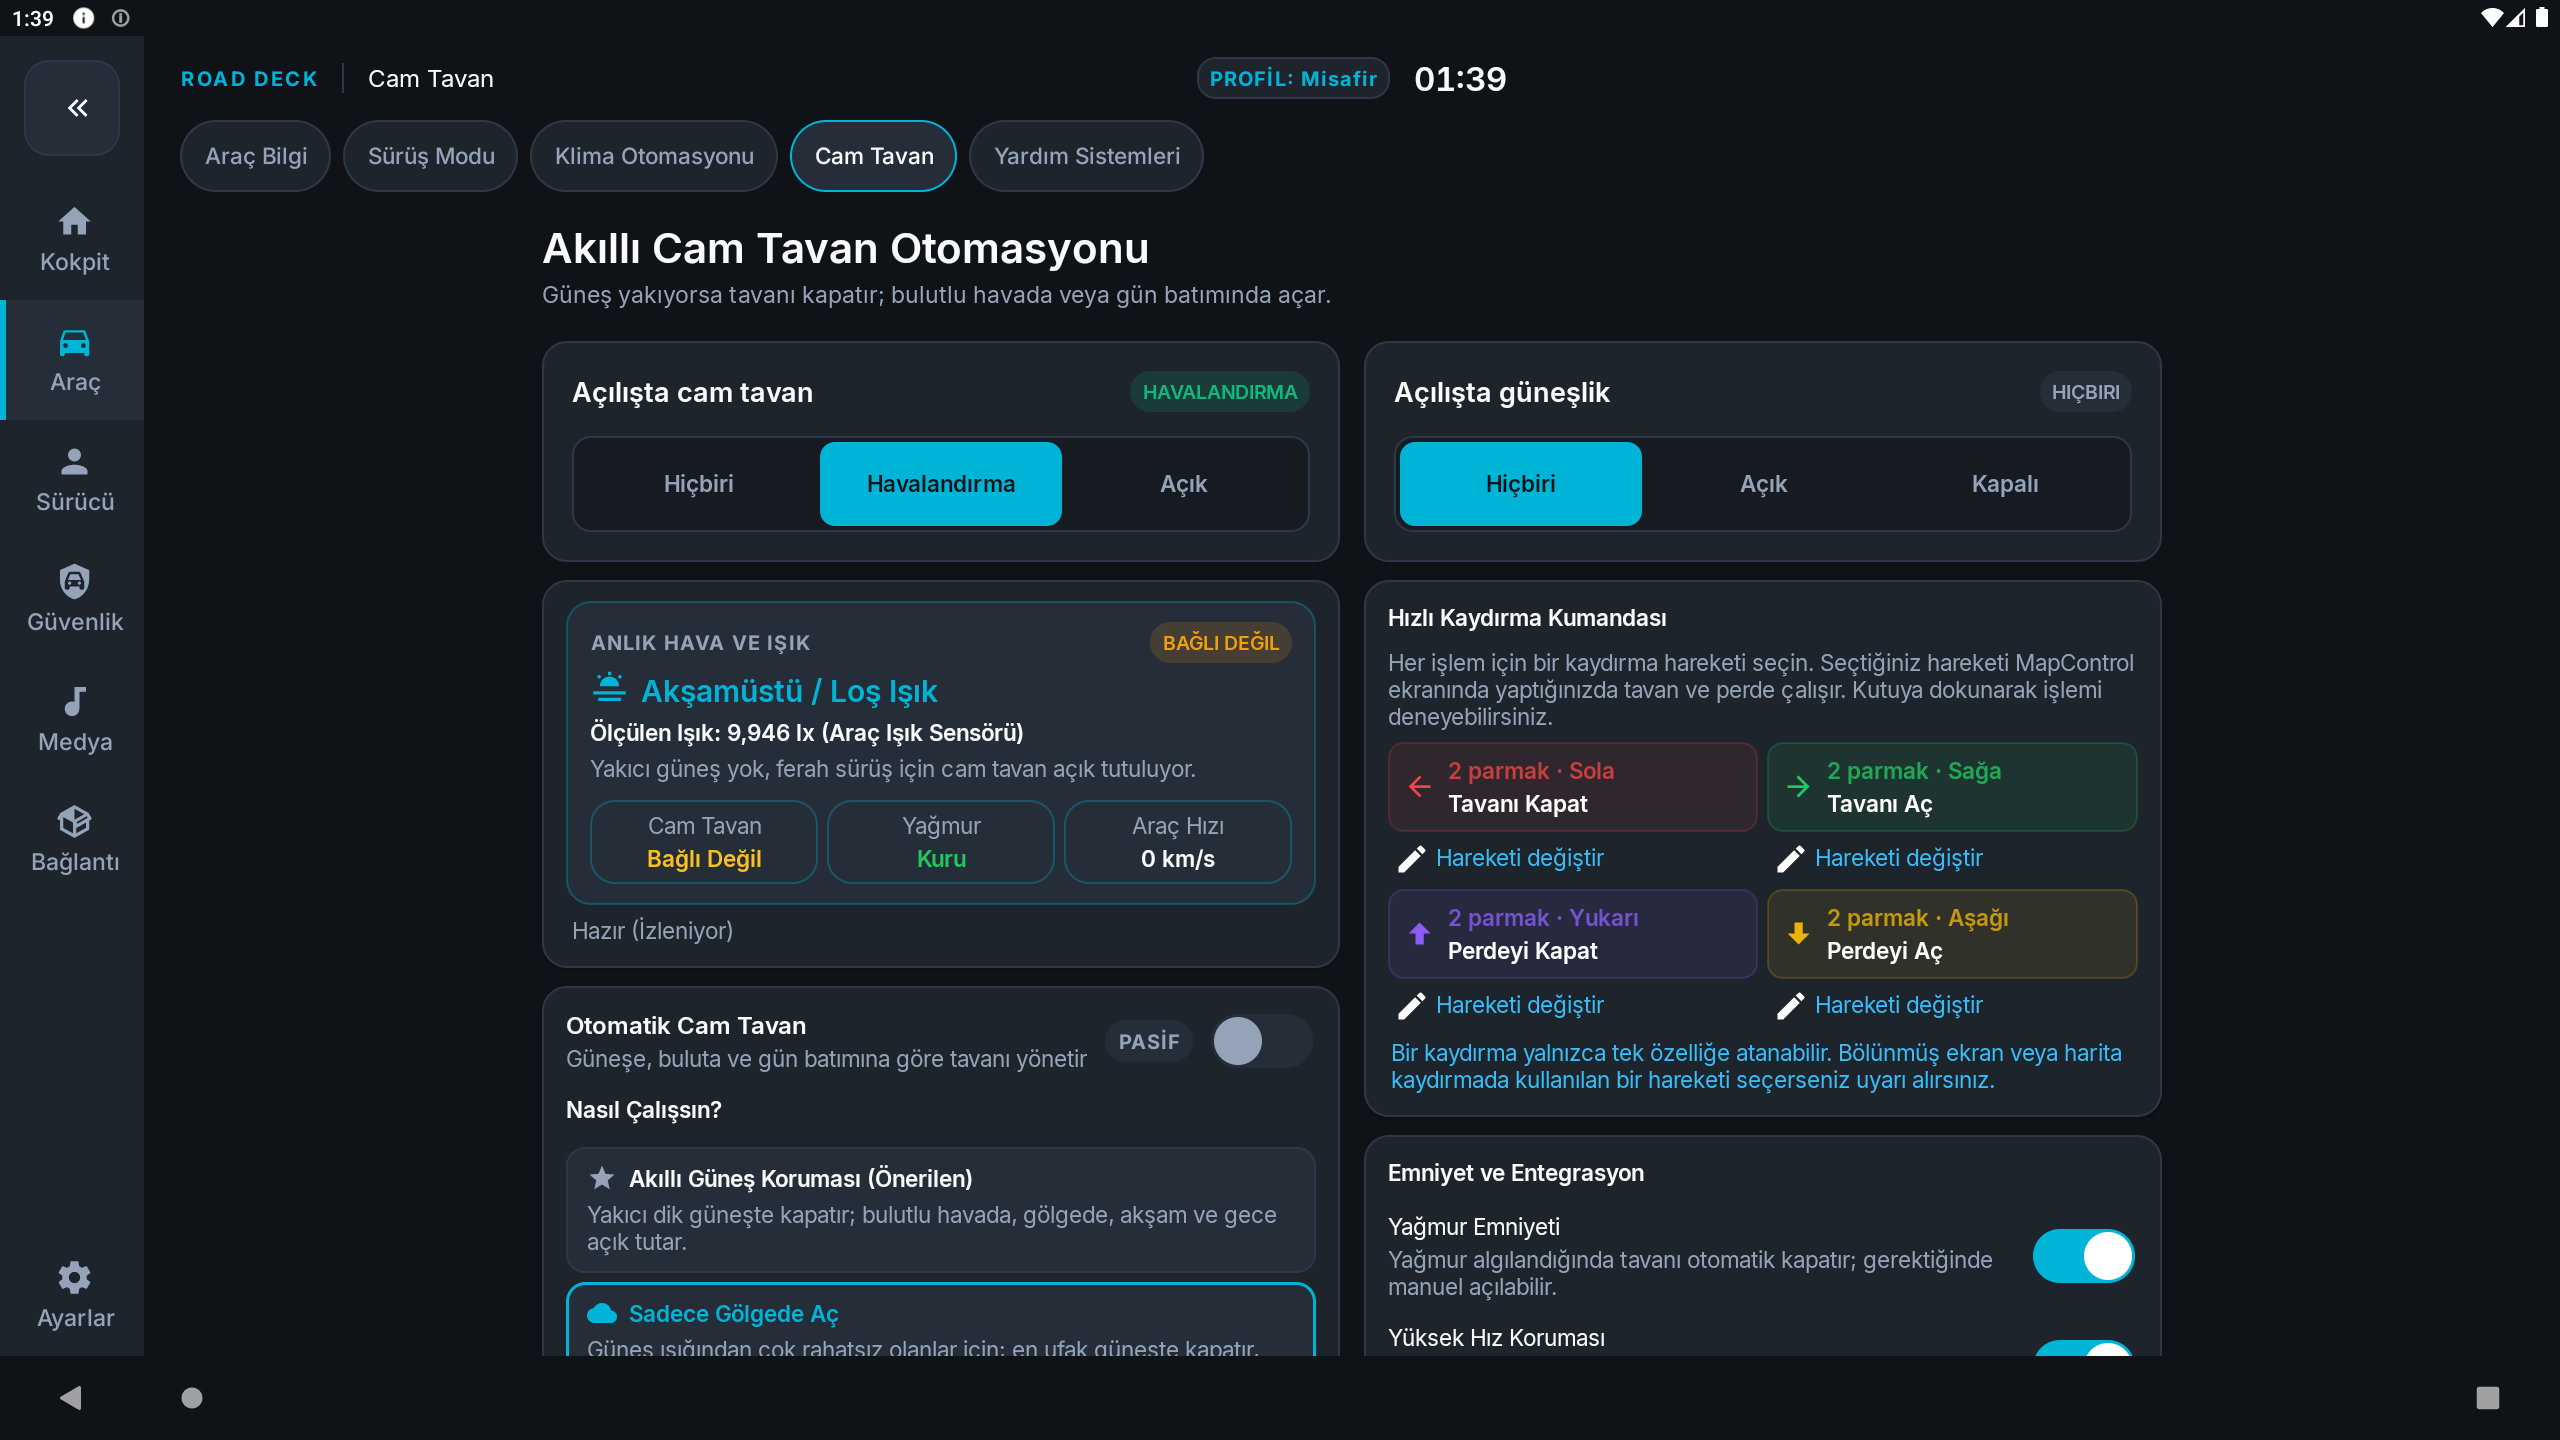
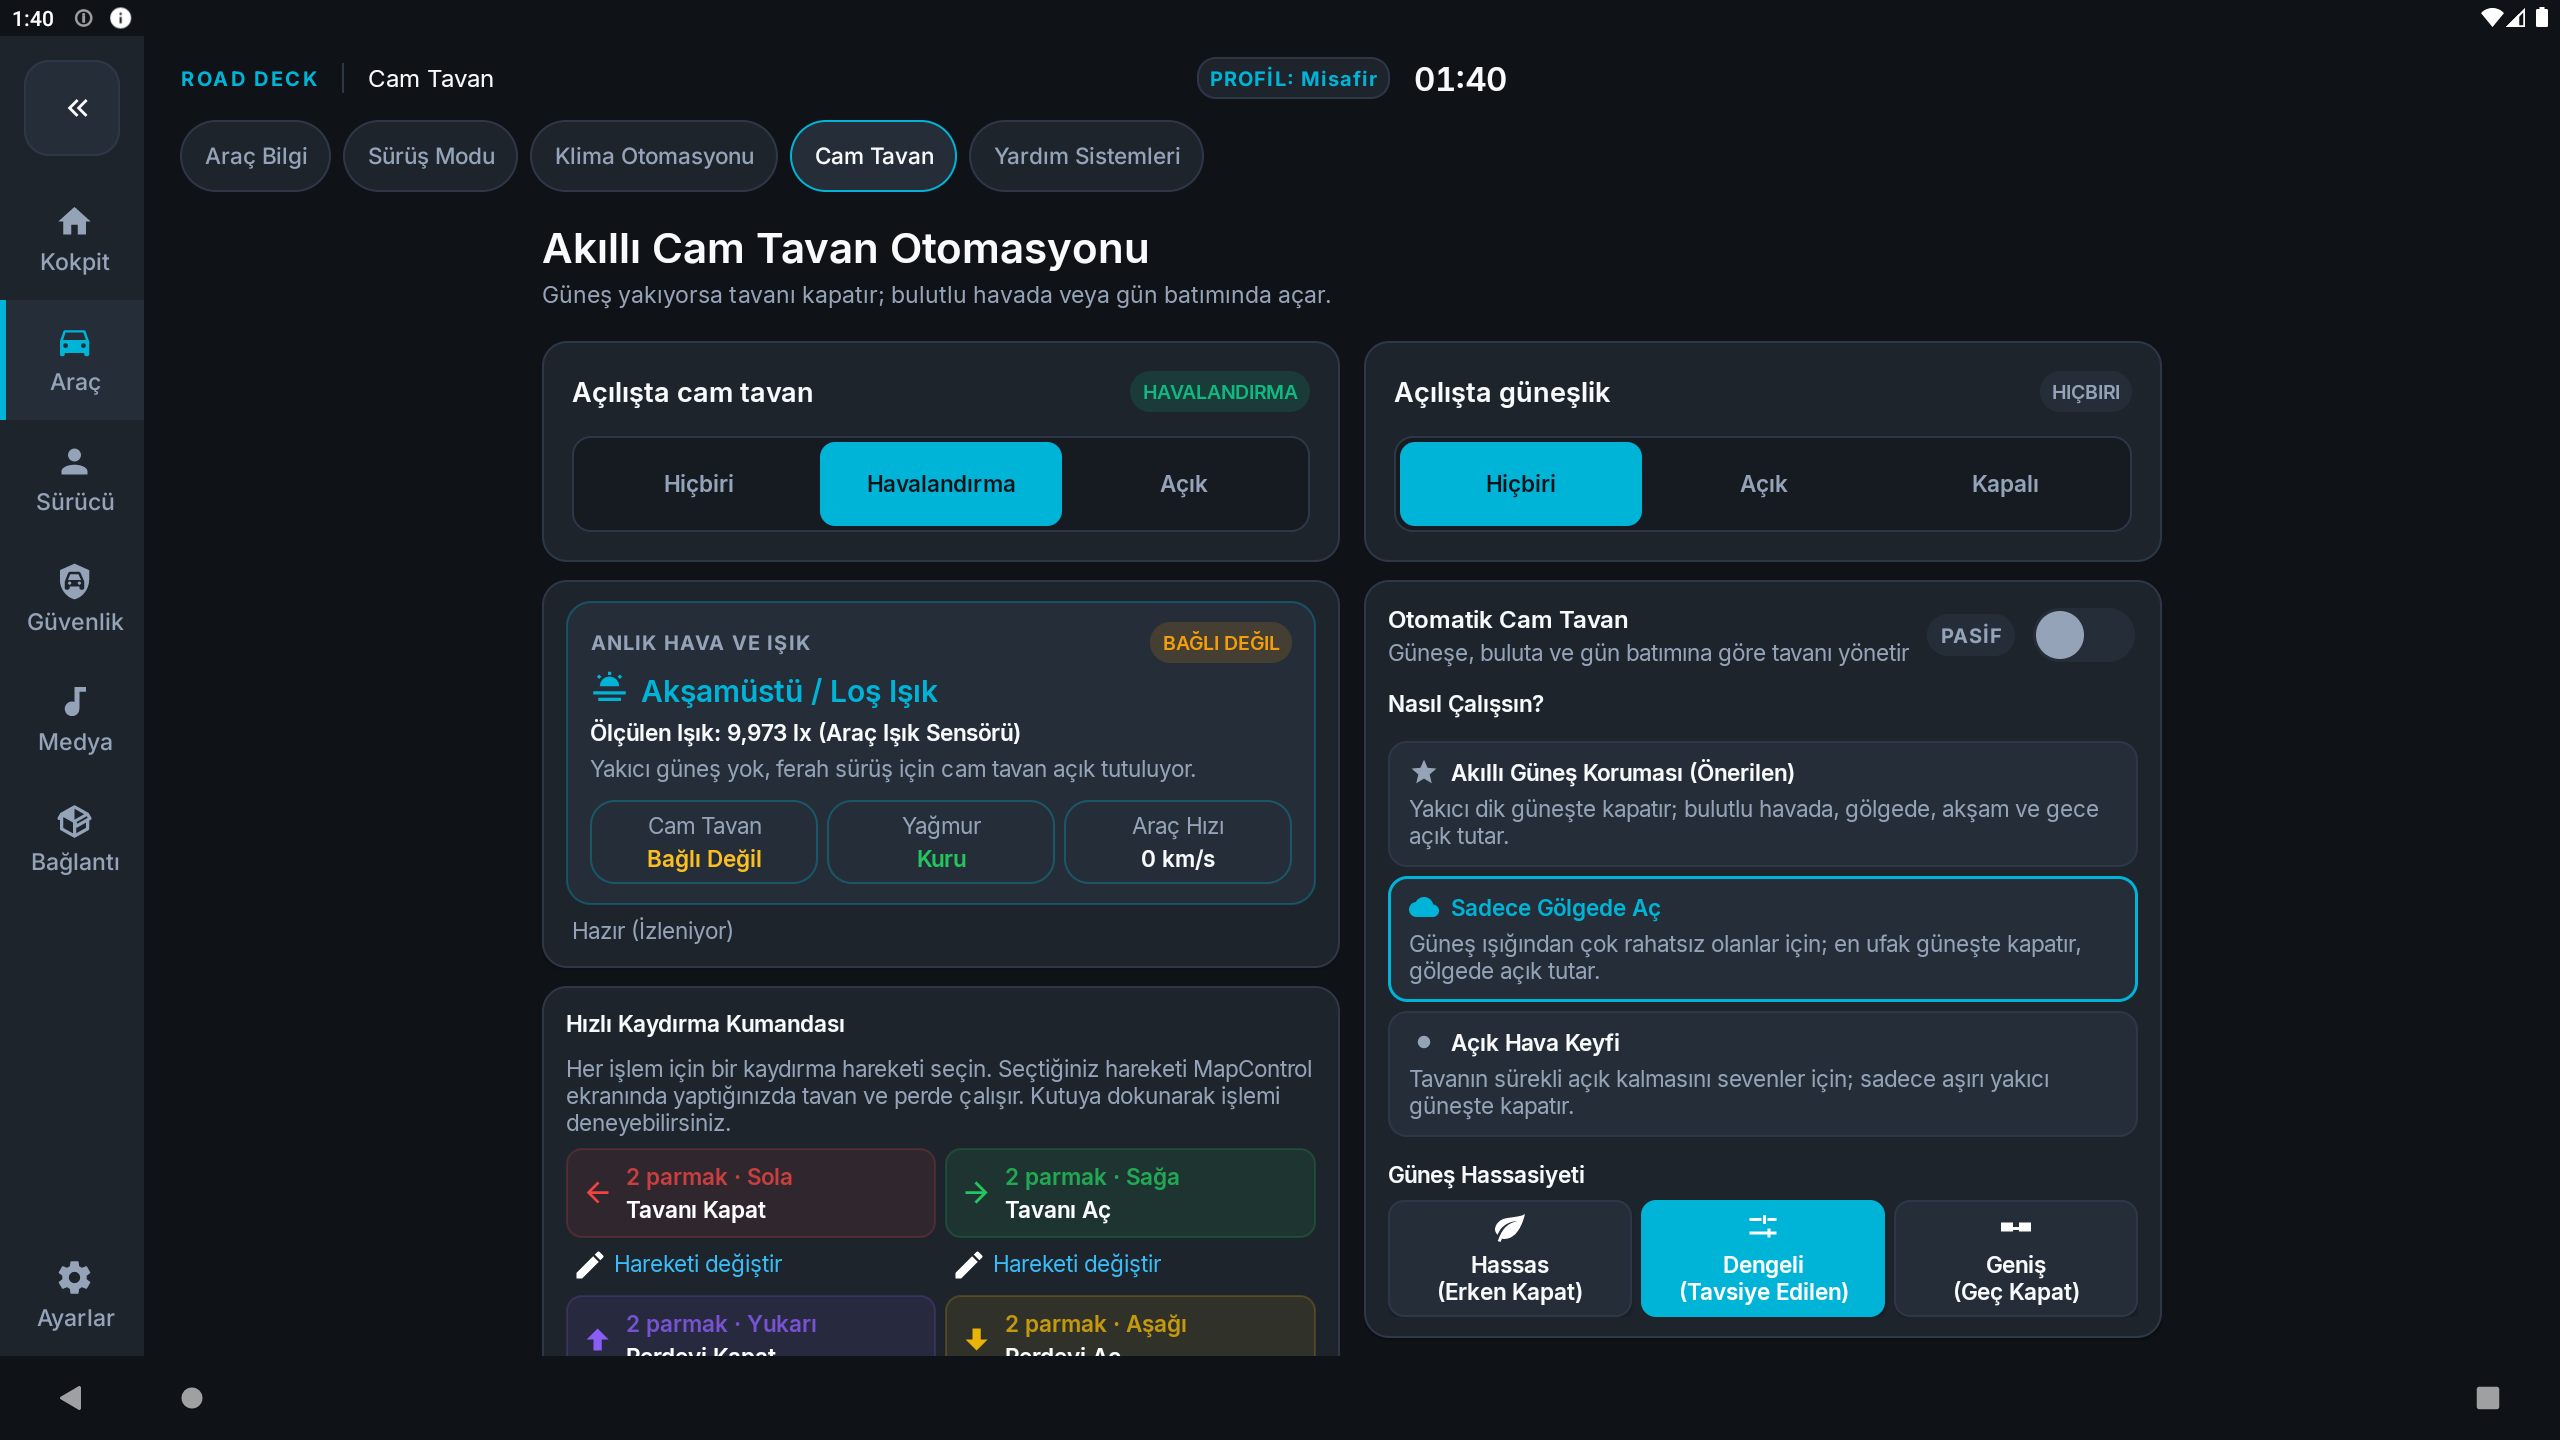
style: cam tavan otomasyon ve hizli kumanda kartlarinin yerini degistir
- Sol sutun: canli durum + hizli kumanda
- Sag sutun: otomatik cam tavan + emniyet
- Dikey duzen de ayni siraya getirildi

diff --git a/app/src/main/java/com/mapcontrol/ui/builder/SunroofAutomationTabBuilder.java b/app/src/main/java/com/mapcontrol/ui/builder/SunroofAutomationTabBuilder.java
@@ -128,8 +128,8 @@ public final class SunroofAutomationTabBuilder implements SunroofAutomationEngin
 
         if (isPortrait) {
             root.addView(buildLiveConditionCard(density));
-            root.addView(buildAutomationModeCard(density));
             root.addView(buildQuickControlsCard(density));
+            root.addView(buildAutomationModeCard(density));
             root.addView(buildSafetyCard(density));
         } else {
             LinearLayout columns = new LinearLayout(context);
@@ -139,11 +139,11 @@ public final class SunroofAutomationTabBuilder implements SunroofAutomationEngin
             LinearLayout leftColumn = new LinearLayout(context);
             leftColumn.setOrientation(LinearLayout.VERTICAL);
             leftColumn.addView(buildLiveConditionCard(density));
-            leftColumn.addView(buildAutomationModeCard(density));
+            leftColumn.addView(buildQuickControlsCard(density));
 
             LinearLayout rightColumn = new LinearLayout(context);
             rightColumn.setOrientation(LinearLayout.VERTICAL);
-            rightColumn.addView(buildQuickControlsCard(density));
+            rightColumn.addView(buildAutomationModeCard(density));
             rightColumn.addView(buildSafetyCard(density));
 
             columns.addView(leftColumn, weightedCard(0, dp(8, density)));
